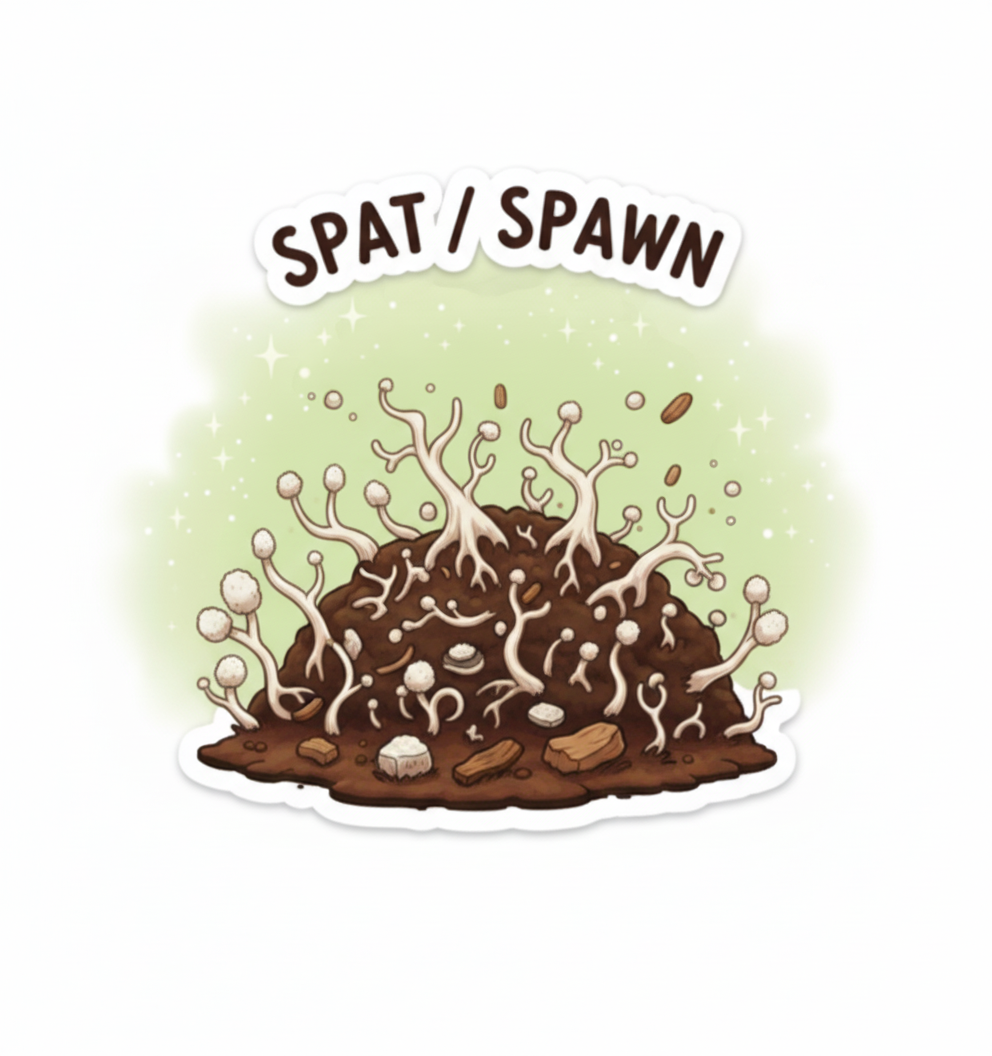
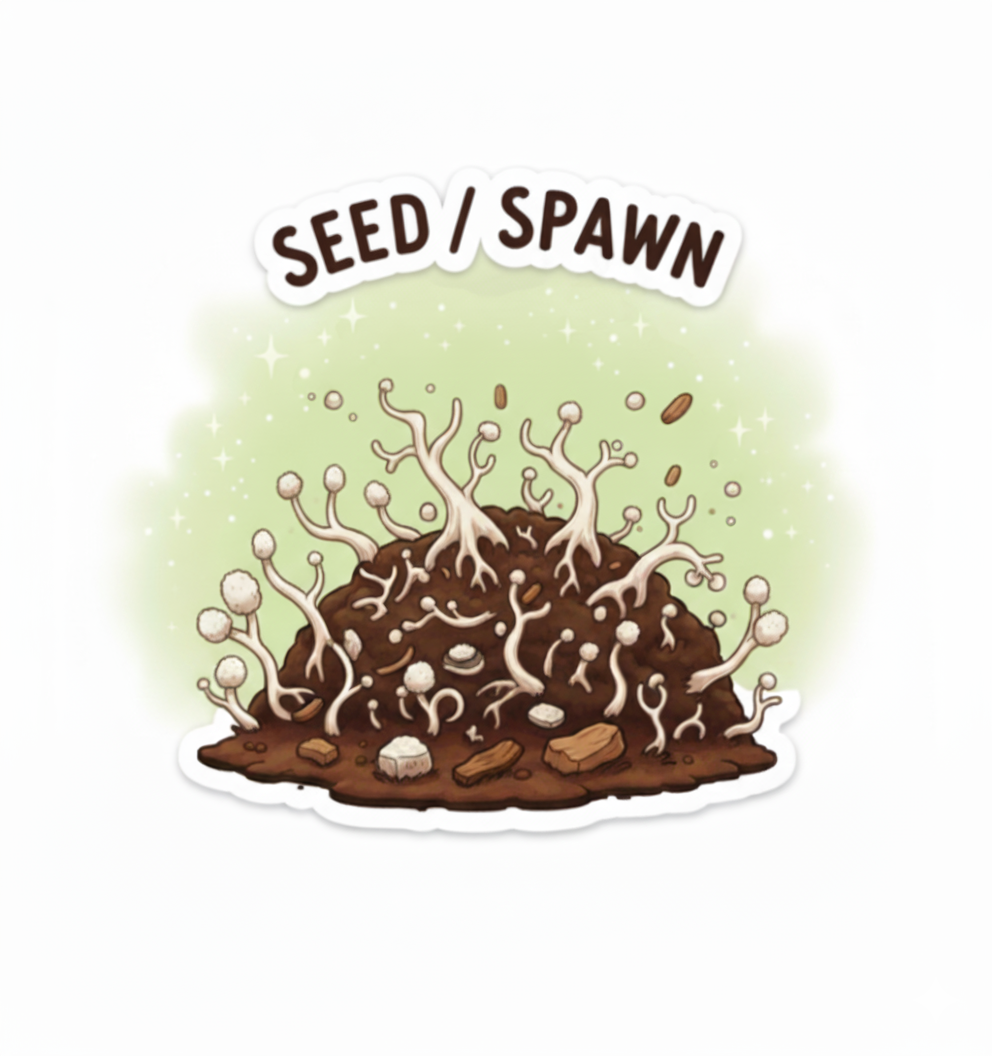
Updated the spat/spawn to seed/spawn

diff --git a/prisma/seed.ts b/prisma/seed.ts
@@ -75,14 +75,14 @@ async function main() {
       where: { slug: 'spat-spawn' },
       update: {
         title: 'Spat/Spawn',
-        img: '/images/categories/spat_spawn.png',
+        img: '/images/categories/seed_spawn.png',
         path: '/shop?category=spat-spawn',
         description: 'Mushroom spawn and spore cultures for cultivation'
       },
       create: {
         title: 'Spat/Spawn',
         slug: 'spat-spawn',
-        img: '/images/categories/spat_spawn.png',
+        img: '/images/categories/seed_spawn.png',
         path: '/shop?category=spat-spawn',
         description: 'Mushroom spawn and spore cultures for cultivation'
       }
